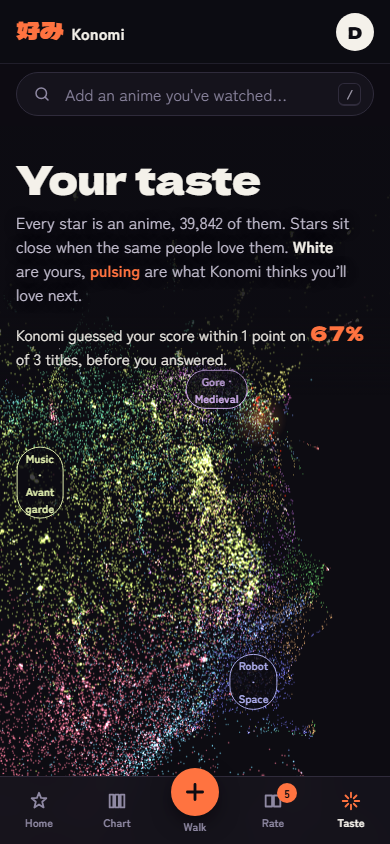
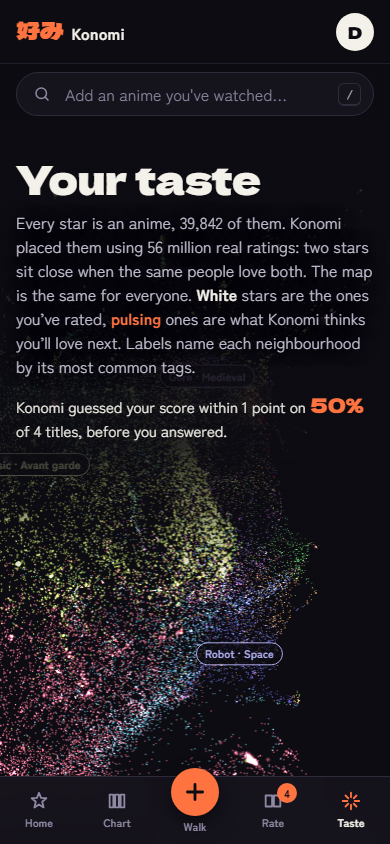
Taste opens instantly; galaxy loads ahead and fades in; clearer galaxy copy

Changed region(s): [[0.0, 0.2464, 0.9538, 0.9242]]

diff --git a/web/src/features/taste/TastePage.tsx b/web/src/features/taste/TastePage.tsx
@@ -1,18 +1,19 @@
 import { useQuery } from '@tanstack/react-query'
 import { motion } from 'motion/react'
-import { useMemo, useState } from 'react'
+import { lazy, Suspense, useMemo, useState } from 'react'
 import { Link, useNavigate } from 'react-router-dom'
 import { Cover } from '../../components/Cover'
 import { api } from '../../lib/api'
 import type { AnimeBrief } from '../../lib/types'
 import { RecCard, useRecs } from '../home/HomePage'
-import { GalaxyCanvas, type ClusterMeta, type Point } from './Galaxy'
+import { galaxyQuery, loadGalaxy } from './preload'
 import './taste.css'
 
 interface Axis { id: number; neg: string[]; pos: string[]; value: number }
 interface NetNode { anime: AnimeBrief | null; edges: number[] }
 
 const ACCENT = '#ff7340'
+const GalaxyCanvas = lazy(() => loadGalaxy().then((m) => ({ default: m.GalaxyCanvas })))
 
 function Dna({ axes }: { axes: Axis[] }) {
   return (
@@ -109,7 +110,7 @@ export default function TastePage() {
   const nav = useNavigate()
   const [filter, setFilter] = useState('')
   const [hover, setHover] = useState<{ id: number; at: { x: number; y: number } } | null>(null)
-  const galaxy = useQuery({ queryKey: ['galaxy'], queryFn: () => api<{ points: Point[]; clusters: ClusterMeta[] }>('/api/taste/galaxy'), staleTime: Infinity })
+  const galaxy = useQuery(galaxyQuery)
   const me = useQuery({ queryKey: ['taste-me'], queryFn: () => api<{ mine: { id: number; score: number | null }[]; centroid: [number, number, number] | null; recs: number[] }>('/api/taste/me') })
   const dna = useQuery({ queryKey: ['dna'], queryFn: () => api<{ axes: Axis[] | null; need: number }>('/api/taste/dna') })
   const net = useQuery({ queryKey: ['network'], queryFn: () => api<{ network: { axes: Axis[]; inputs: NetNode[]; outputs: NetNode[] } | null }>('/api/taste/network') })
@@ -123,17 +124,23 @@ export default function TastePage() {
   return (
     <div className="taste" data-season="FALL">
       <section className="g-stage">
-        {galaxy.data && (
-          <div className="g-canvas"><GalaxyCanvas points={galaxy.data.points} clusters={galaxy.data.clusters} mine={mine} recs={recSet} centroid={me.data?.centroid ?? null}
-            accent={ACCENT} onHover={(id, at) => setHover(id != null && at ? { id, at } : null)}
-            onPick={(id) => nav(`/anime/${id}`)} /></div>
-        )}
+        {galaxy.data ? (
+          <Suspense fallback={<p className="g-loading faint">Placing the stars…</p>}>
+            <div className="g-canvas"><GalaxyCanvas points={galaxy.data.points} clusters={galaxy.data.clusters} mine={mine} recs={recSet} centroid={me.data?.centroid ?? null}
+              accent={ACCENT} onHover={(id, at) => setHover(id != null && at ? { id, at } : null)}
+              onPick={(id) => nav(`/anime/${id}`)} /></div>
+          </Suspense>
+        ) : <p className="g-loading faint">{galaxy.isError ? 'The galaxy didn’t load. Refresh to try again.' : 'Placing the stars…'}</p>}
         <div className="g-overlay page">
           <h1 className="display g-title">Your taste</h1>
           <p className="g-lead">
-            Every star is an anime, {galaxy.data ? galaxy.data.points.length.toLocaleString() : '39,000+'} of them.
-            Stars sit close when the same people love them. <span className="g-key g-key-mine">White</span> are yours,
-            <span className="g-key g-key-rec"> pulsing</span> are what Konomi thinks you’ll love next.
+            Every star is an anime, {galaxy.data ? galaxy.data.points.length.toLocaleString() : '39,000+'} of them. Konomi placed
+            them using 56 million real ratings: two stars sit close when the same people love both. The map is the same for
+            everyone. {me.data && mine.size === 0
+              ? <>Rate a few anime and yours light up here in <span className="g-key g-key-mine">white</span>.</>
+              : <><span className="g-key g-key-mine">White</span> stars are the ones you’ve rated,
+                <span className="g-key g-key-rec"> pulsing</span> ones are what Konomi thinks you’ll love next.</>}
+            {' '}Labels name each neighbourhood by its most common tags.
           </p>
           {track.data && track.data.n >= 3 && track.data.within1 != null && (
             <p className="g-track">

diff --git a/web/src/app/Layout.tsx b/web/src/app/Layout.tsx
@@ -3,6 +3,7 @@ import { useEffect, useLayoutEffect, useRef, useState } from 'react'
 import { Link, NavLink, Outlet, useLocation, useNavigate, useNavigationType } from 'react-router-dom'
 import { Icon } from '../components/Icon'
 import { morph } from '../components/VtLink'
+import { galaxyQuery, loadGalaxy } from '../features/taste/preload'
 import { QuickAdd } from '../features/add/QuickAdd'
 import { api } from '../lib/api'
 import { currentSeason, useMe } from '../lib/hooks'
@@ -65,6 +66,14 @@ export function Layout() {
   const { pathname, search } = useLocation()
   const main = useRef<HTMLElement>(null)
   useScrollMemory()
+
+  // Fetch the galaxy code once the app is idle, and its stars as soon as someone heads for Taste.
+  useEffect(() => {
+    if (!me) return
+    const idle = window.requestIdleCallback ?? ((cb: () => void) => window.setTimeout(cb, 2000))
+    idle(() => { loadGalaxy().catch(() => undefined) })
+  }, [me])
+  const warmTaste = () => { loadGalaxy().catch(() => undefined); qc.prefetchQuery(galaxyQuery) }
   const first = useRef(true)
 
   // Each new page rises in softly instead of cutting. The first page has the splash; cover morphs have their own.
@@ -96,7 +105,7 @@ export function Layout() {
               <NavLink to="/rate" className="has-badge">
                 Rate{unrated > 0 && <span className="badge">{unrated > 99 ? '99+' : unrated}</span>}
               </NavLink>
-              <NavLink to="/taste">Taste</NavLink>
+              <NavLink to="/taste" onPointerEnter={warmTaste} onFocus={warmTaste}>Taste</NavLink>
             </>
           ) : (
             <>
@@ -133,7 +142,7 @@ export function Layout() {
           <NavLink to="/sweep" className="bb-add"><span className="bb-plus"><Icon name="plus" size={26} stroke={2.6} /></span><span>Walk</span></NavLink>
           <NavLink to="/rate" className="has-badge"><Icon name="duel" size={22} /><span>Rate</span>
             {unrated > 0 && <span className="badge">{unrated > 99 ? '99+' : unrated}</span>}</NavLink>
-          <NavLink to="/taste"><Icon name="sparkle" size={22} /><span>Taste</span></NavLink>
+          <NavLink to="/taste" onTouchStart={warmTaste} onPointerEnter={warmTaste}><Icon name="sparkle" size={22} /><span>Taste</span></NavLink>
         </nav>
       )}
     </div>

diff --git a/web/src/app/App.tsx b/web/src/app/App.tsx
@@ -1,4 +1,4 @@
-import { lazy, Suspense, useEffect, type ReactNode } from 'react'
+import { useEffect, type ReactNode } from 'react'
 import { Navigate, Route, Routes } from 'react-router-dom'
 import { AuthPage } from '../features/auth/AuthPage'
 import { AnimePage } from '../features/anime/AnimePage'
@@ -9,10 +9,10 @@ import { ProfilePage } from '../features/profile/ProfilePage'
 import { SettingsPage } from '../features/profile/SettingsPage'
 import { RatePage } from '../features/rate/RatePage'
 import { SweepPage } from '../features/add/SweepPage'
+import TastePage from '../features/taste/TastePage'
 import { useMe } from '../lib/hooks'
 import { Layout } from './Layout'
 
-const TastePage = lazy(() => import('../features/taste/TastePage'))
 
 function Private({ children }: { children: ReactNode }) {
   const { data: me, isLoading } = useMe()
@@ -55,7 +55,7 @@ export function App() {
         <Route path="chart" element={<Private><ChartPage /></Private>} />
         <Route path="sweep" element={<Private><SweepPage /></Private>} />
         <Route path="rate" element={<Private><RatePage /></Private>} />
-        <Route path="taste" element={<Private><Suspense fallback={null}><TastePage /></Suspense></Private>} />
+        <Route path="taste" element={<Private><TastePage /></Private>} />
         <Route path="settings" element={<Private><SettingsPage /></Private>} />
         <Route path="anime/:id" element={<AnimePage />} />
         <Route path="u/:username" element={<ProfilePage />} />

diff --git a/web/src/features/taste/taste.css b/web/src/features/taste/taste.css
@@ -2,7 +2,11 @@
   position: relative; height: min(86dvh, 1000px); min-height: 520px; overflow: hidden;
   background: var(--ink);
 }
-.g-canvas { position: absolute; inset: 0; }
+.g-canvas { position: absolute; inset: 0; animation: g-in 1.4s cubic-bezier(0.16, 1, 0.3, 1) both; }
+@keyframes g-in { from { opacity: 0; transform: scale(0.94); } to { opacity: 1; transform: none; } }
+.g-loading { position: absolute; z-index: 2; left: 0; right: 0; top: 55%; text-align: center; font-size: 14px; animation: g-wait 1.6s ease-in-out infinite; }
+@keyframes g-wait { 50% { opacity: 0.4; } }
+@media (prefers-reduced-motion: reduce) { .g-canvas, .g-loading { animation: none; } }
 /* Quiet the stars behind the intro text so it stays readable; the canvas still takes every drag. */
 .g-stage::before {
   content: ''; position: absolute; z-index: 1; inset: 0; pointer-events: none;

diff --git a/web/src/features/taste/preload.ts b/web/src/features/taste/preload.ts
@@ -1,0 +1,10 @@
+import { api } from '../../lib/api'
+import type { ClusterMeta, Point } from './Galaxy'
+
+/** The 3D galaxy is the heaviest part of the app: load its code and its 40,000 stars ahead of the first visit. */
+export const loadGalaxy = () => import('./Galaxy')
+export const galaxyQuery = {
+  queryKey: ['galaxy'],
+  queryFn: () => api<{ points: Point[]; clusters: ClusterMeta[] }>('/api/taste/galaxy'),
+  staleTime: Infinity,
+}
